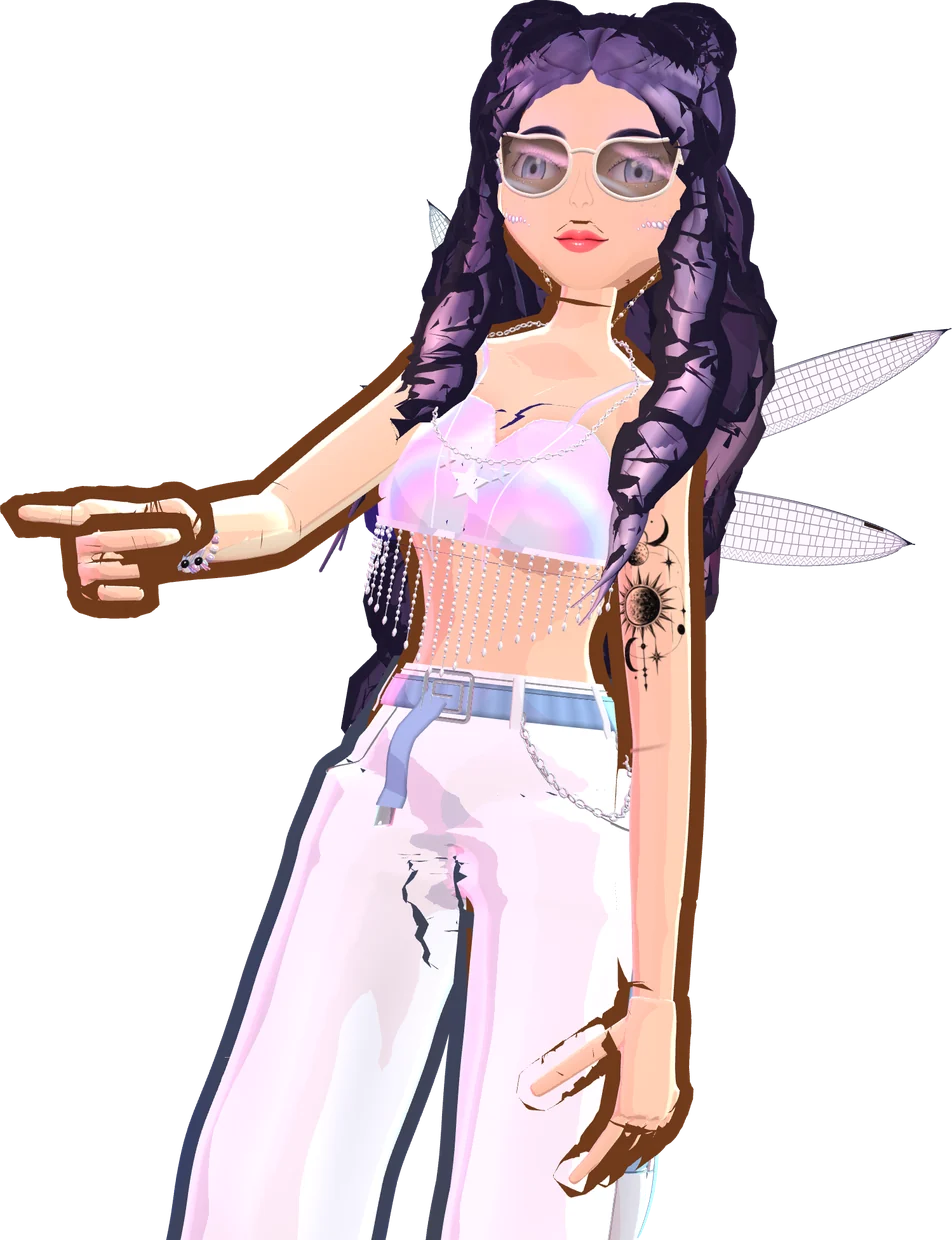
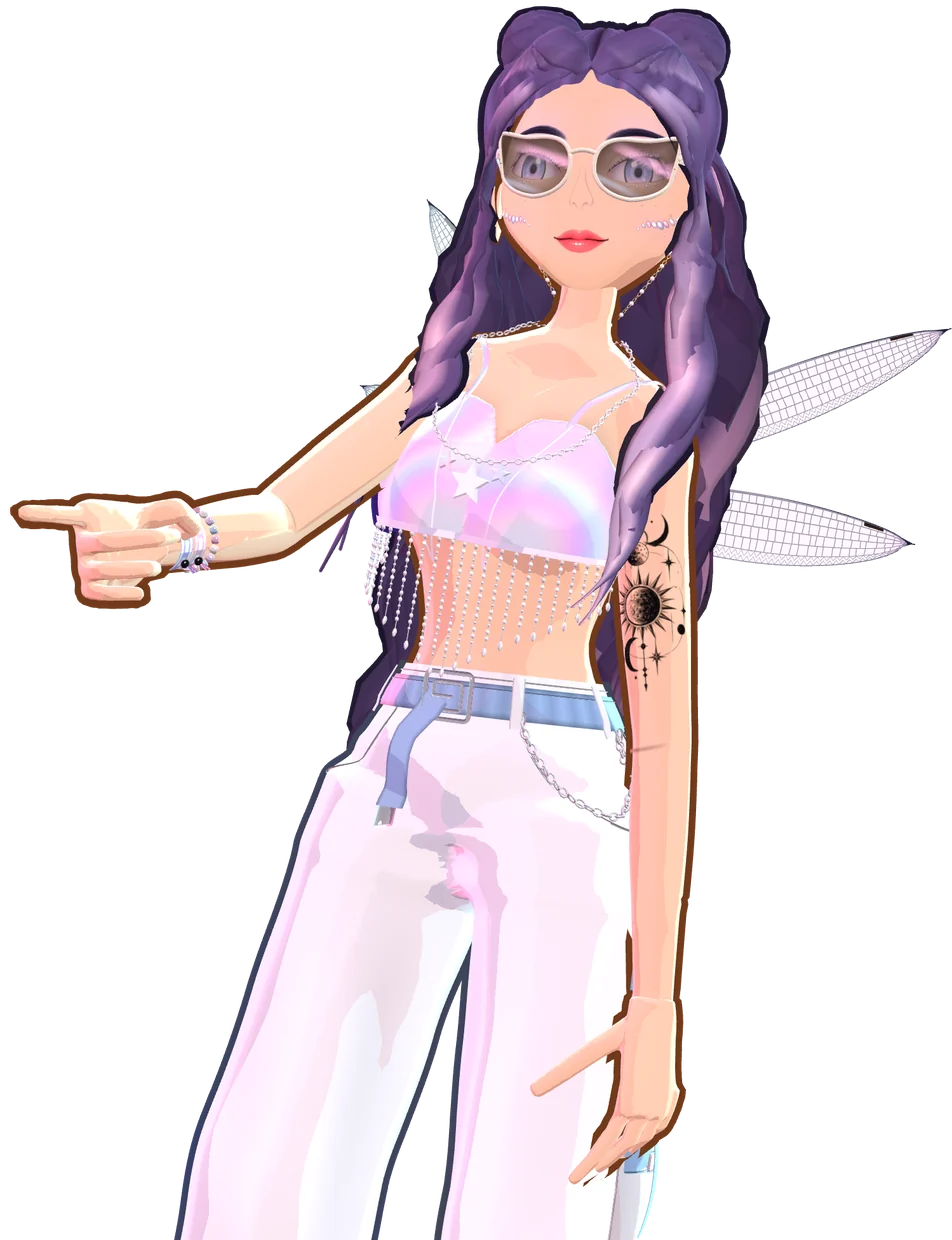
Projects: two dancers on the Beat Beat City cover; re-render the first cleanly
The first cut-out was drawn without the game's outline masking, which left a line
across the neck, at the cleavage, above the lip and at the crotch, and a hand cut up
by its own outline. Re-rendered with the same camera and crop.

A second character stands to her right, blowing a kiss. The first moves left so her
finger lands on the logo's edge; the logo is a little narrower and the dancers sit in
front of it. On phones the dancers are smaller so both fit.

diff --git a/assets/site.css b/assets/site.css
@@ -582,7 +582,7 @@ html { scroll-padding-top: 96px; }
 .project__stage { position: relative; isolation: isolate; display: grid; place-items: center start; min-height: clamp(240px, 40vw, 460px); padding: clamp(20px, 5vw, 56px); background: #0b0620;  overflow: hidden; }
 .project__bg { position: absolute; inset: 0; z-index: -2; width: 100%; height: 100%; object-fit: cover; object-position: 50% 55%; }
 .project__stage::after { content: ""; position: absolute; inset: 0; z-index: -1; background: radial-gradient(ellipse at center, rgba(11, 6, 32, .15), rgba(11, 6, 32, .6) 100%), linear-gradient(to bottom, transparent 60%, rgba(11, 6, 32, .65)); }
-.project__logo-wrap { position: relative; display: inline-block; width: min(500px, 54%); margin-left: clamp(0px, 6%, 80px); animation: bbc-logo-tilt 6s ease-in-out infinite; }
+.project__logo-wrap { position: relative; display: inline-block; width: min(500px, 50%); margin-left: clamp(0px, 6%, 80px); animation: bbc-logo-tilt 6s ease-in-out infinite; }
 .project__logo { display: block; width: 100%; height: auto; animation: bbc-logo-aura 3.2s ease-in-out infinite; }
 /* The sheen is masked by the logo image, so it only shines on the lettering, not the transparent box around it. */
 .project__logo-wrap::after {
@@ -596,9 +596,10 @@ html { scroll-padding-top: 96px; }
 @keyframes bbc-logo-tilt { 0%, 100% { transform: perspective(900px) rotateX(4deg) rotateY(-6deg); } 50% { transform: perspective(900px) rotateX(-3deg) rotateY(6deg); } }
 @keyframes bbc-logo-sheen { 0% { background-position: -60% -60%; } 100% { background-position: 160% 160%; } }
 /* The dancer stands at the right and points at the logo (which sits left to make room). She comes before the logo in the markup, so where a narrow screen overlaps them her hand goes behind the lettering. */
-.project__dancer { position: absolute; right: 3%; bottom: -10%; height: 107%; width: auto; pointer-events: none; user-select: none; filter: drop-shadow(0 0 10px rgba(255, 120, 225, .45)) drop-shadow(0 0 34px rgba(79, 168, 255, .38)); animation: bbc-dancer-float 5.5s ease-in-out infinite; }
+.project__dancer { position: absolute; z-index: 1; right: 17%; bottom: -9%; height: 102%; width: auto; pointer-events: none; user-select: none; filter: drop-shadow(0 0 10px rgba(255, 120, 225, .45)) drop-shadow(0 0 34px rgba(79, 168, 255, .38)); animation: bbc-dancer-float 5.5s ease-in-out infinite; }
+.project__dancer--second { right: 1%; animation-delay: -2.6s; }
 @keyframes bbc-dancer-float { 0%, 100% { transform: translateY(0); } 50% { transform: translateY(-5px); } }
-@media (max-width: 640px) { .project__logo-wrap { width: 60%; margin-left: 0; } .project__dancer { right: -12%; } }
+@media (max-width: 640px) { .project__logo-wrap { width: 52%; margin-left: 0; } .project__dancer { right: 14%; bottom: -8%; height: 92%; } .project__dancer--second { right: -5%; } }
 .project__body { display: grid; grid-template-columns: minmax(0, 1.25fr) minmax(0, 1fr); gap: clamp(24px, 5vw, 64px); padding: clamp(22px, 4vw, 40px); align-items: start; }
 .project__body h3 { font-size: clamp(26px, 3.4vw, 36px); margin-bottom: 12px; }
 .project__body p { color: var(--muted); max-width: 52ch; }

diff --git a/projects.html b/projects.html
@@ -292,6 +292,7 @@
         <div class="project__stage">
           <img class="project__bg" src="/assets/beat-beat-city-menu.webp" width="1440" height="810" alt="" loading="lazy" decoding="async">
           <img class="project__dancer" src="/assets/beat-beat-city-dancer.webp" width="952" height="1240" alt="" loading="lazy" decoding="async">
+          <img class="project__dancer project__dancer--second" src="/assets/beat-beat-city-dancer-2.webp" width="553" height="1240" alt="" loading="lazy" decoding="async">
           <span class="project__logo-wrap"><img class="project__logo" src="/assets/beat-beat-city-logo.webp" width="800" height="437" alt="Beat Beat City" loading="lazy" decoding="async"></span>
         </div>
         <div class="project__body">
